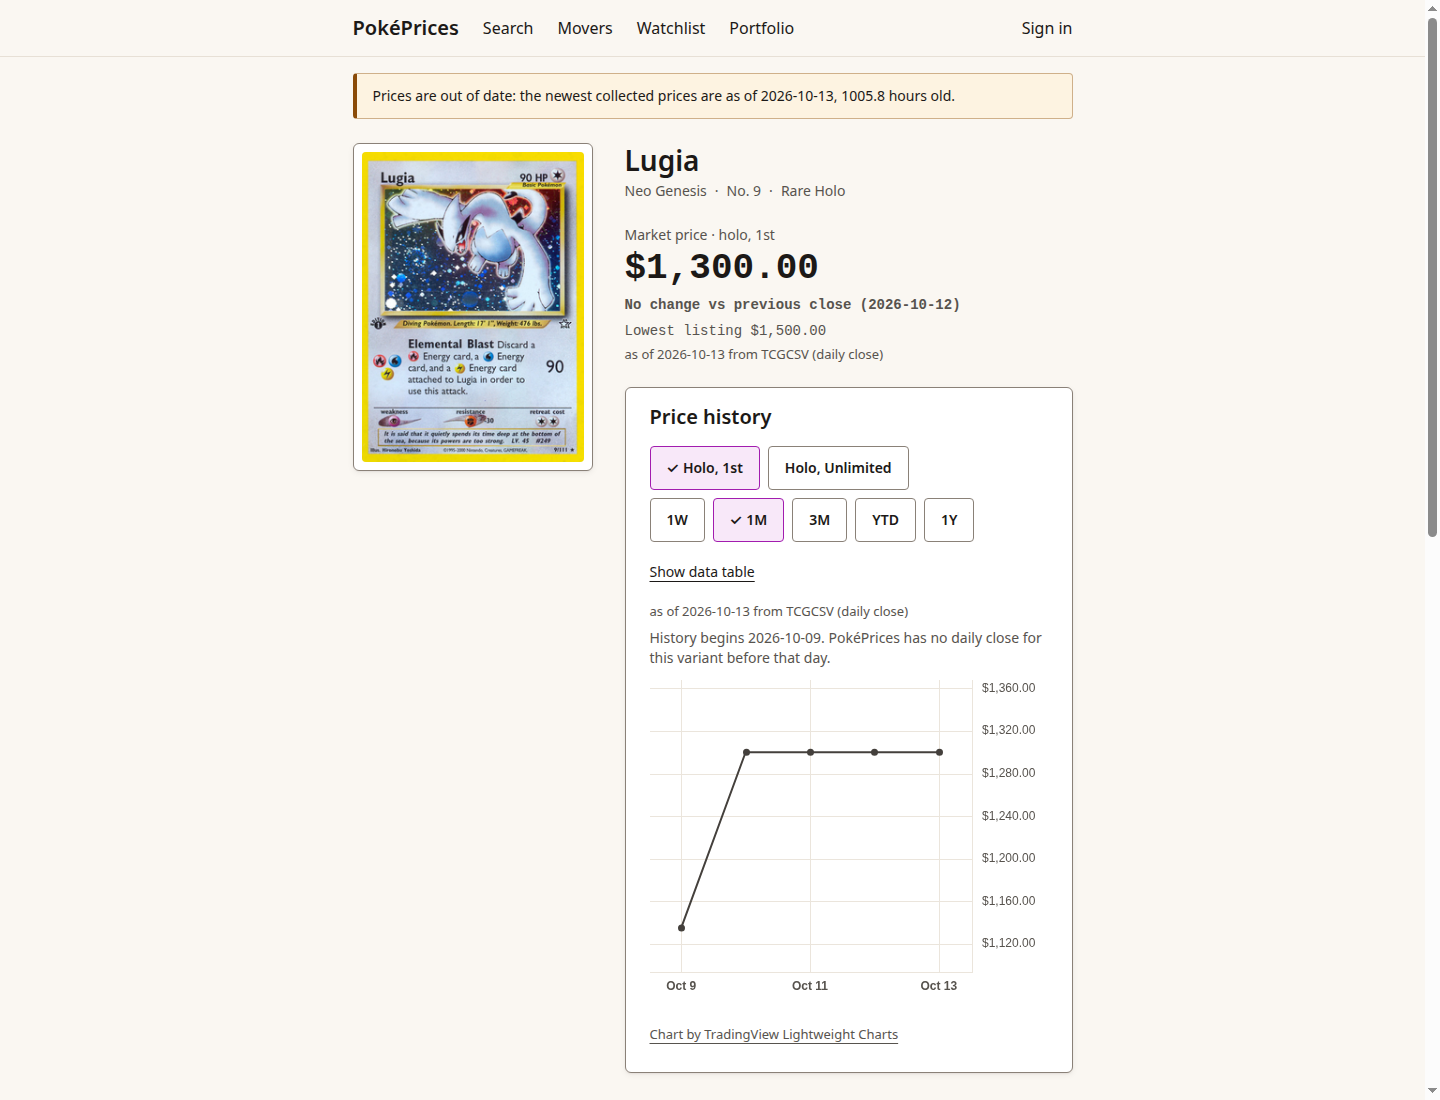
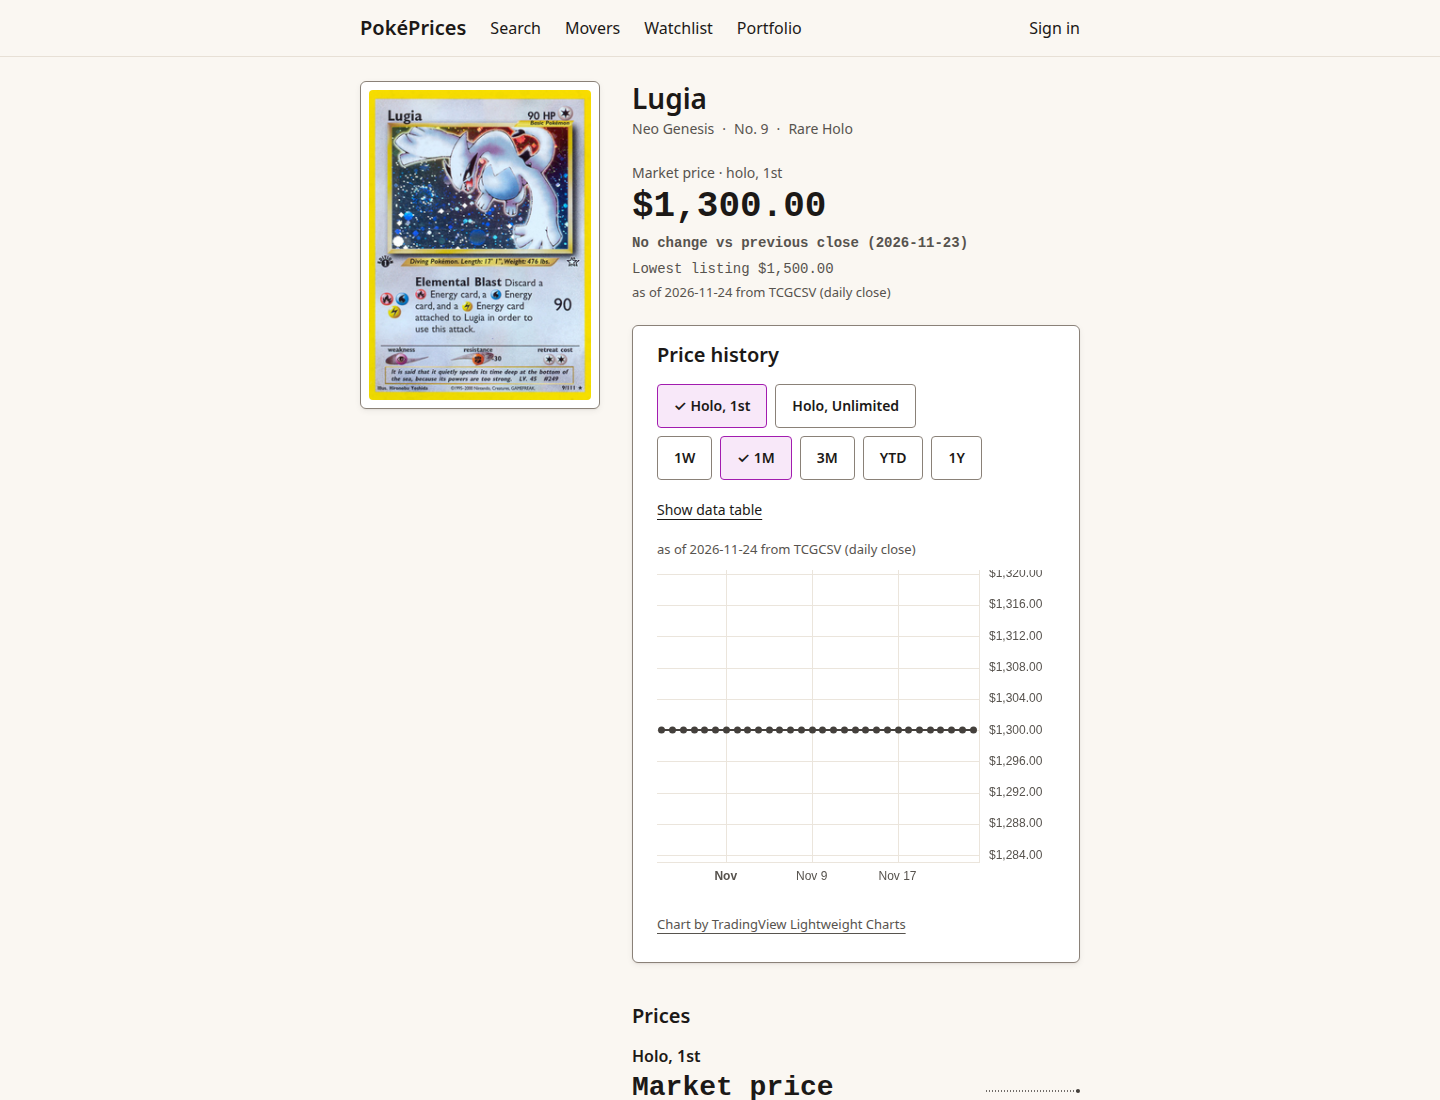
Retake the README's two screenshots from the live site

diff --git a/README.md b/README.md
@@ -11,7 +11,7 @@ each one is shown with its source and the day it is as of, and none is an intrad
 
 ![The PokéPrices home page: the card search box, the "Try the read-only demo" button, four example searches, six well-known cards as picture tiles and the start of the "Biggest moves vs previous close" strip](docs/media/home.png)
 
-![The card page of Lugia from Neo Genesis: the card's picture, its market price with the change vs the previous close, the lowest listing, the line "as of 2026-10-13 from TCGCSV (daily close)" and the price history chart](docs/media/card-page.png)
+![The card page of Lugia from Neo Genesis: the card's picture, its market price with the change vs the previous close, the lowest listing, the line "as of 2026-11-24 from TCGCSV (daily close)" and the price history chart](docs/media/card-page.png)
 
 ## What is interesting
 
